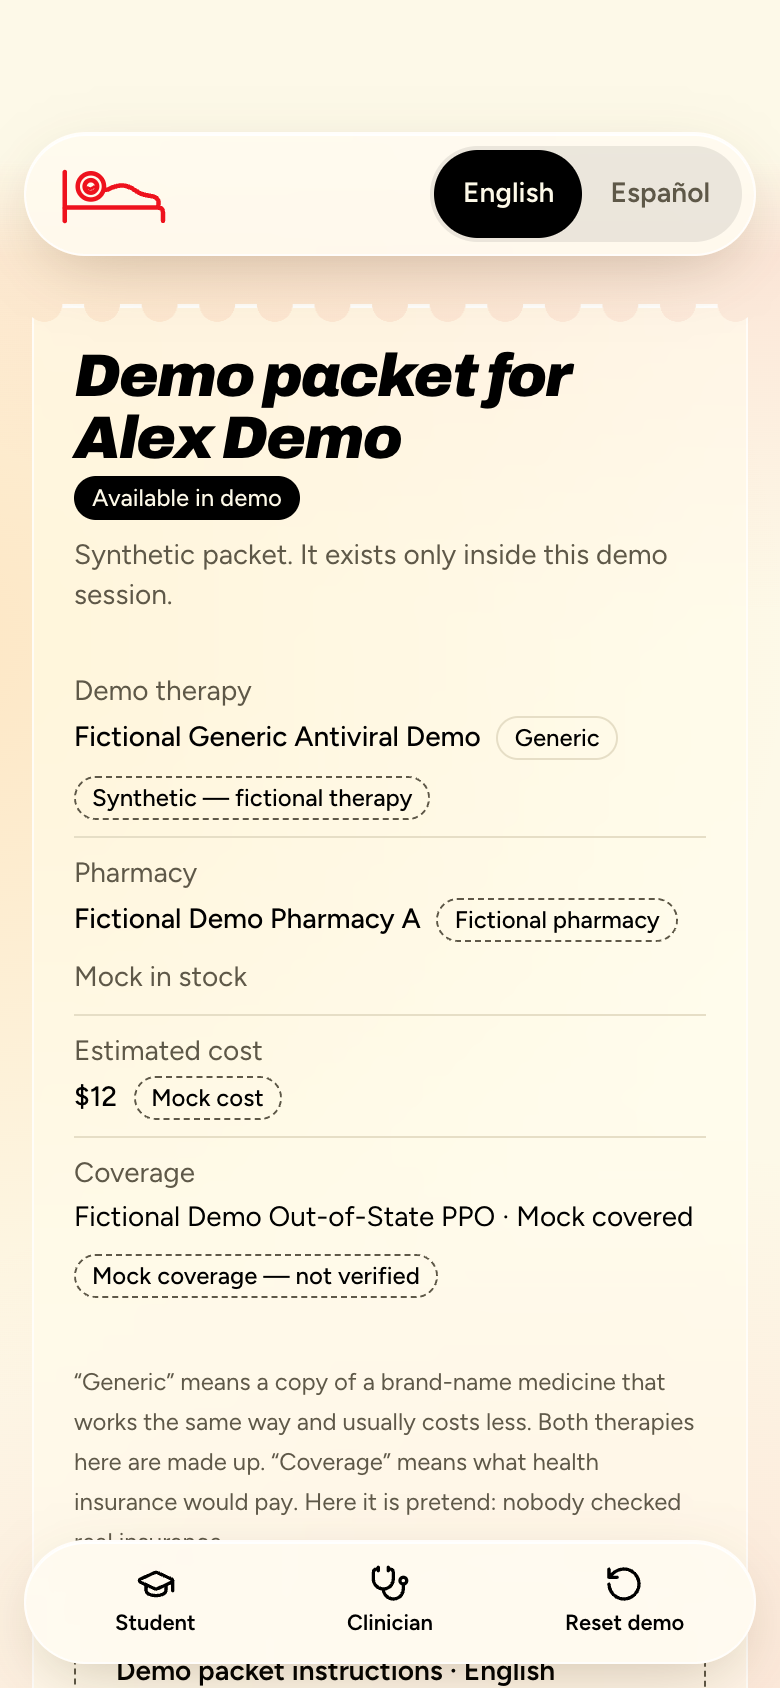
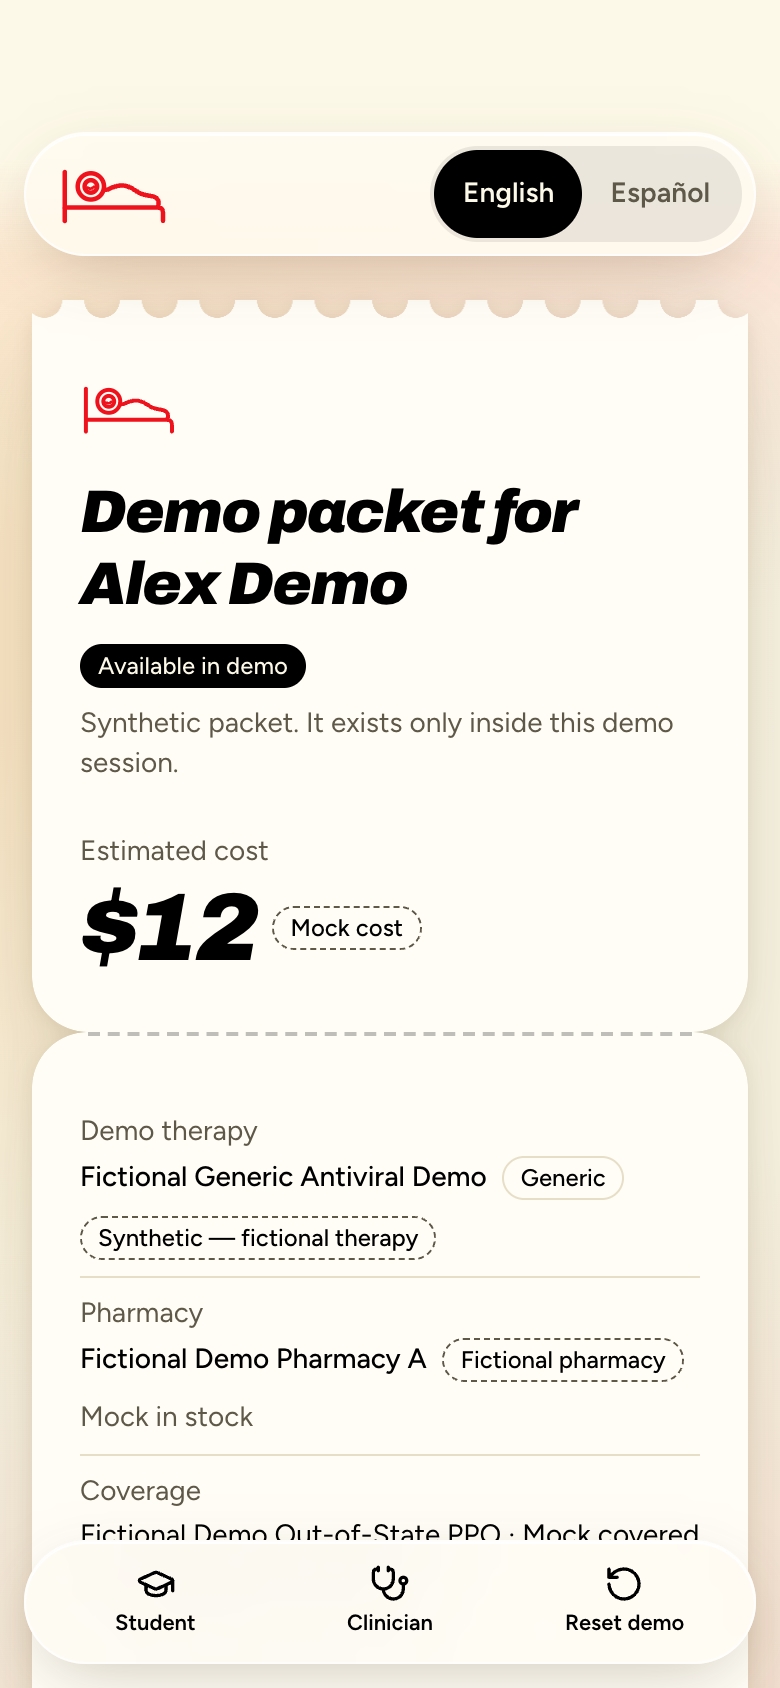
feat: make the returned packet read as a ticket
The packet's only ticket cue was a faint scalloped top edge on a cream
card over a cream page. It is now a two-piece paper ticket: a stub with
the title and the mock price (its label beside it), a perforated tear line
whose side notches come from the two pieces' rounded corners, scalloped
edges top and bottom, and a drop-shadow filter that follows the outline.
The landing page's packet preview is reframed to show it.

diff --git a/src/components/packet/packet-view.tsx b/src/components/packet/packet-view.tsx
@@ -1,6 +1,7 @@
 "use client";
 
 import Link from "next/link";
+import { SickwayMark } from "@/components/brand/sickway-logo";
 import { PollStatus } from "@/components/poll-status";
 import { Alert, AlertDescription, AlertTitle } from "@/components/ui/alert";
 import { Badge } from "@/components/ui/badge";
@@ -58,17 +59,31 @@ export function PacketView({ packetId }: { packetId: string }) {
   const { display } = packet;
 
   return (
-    <Card lang={language} className="ticket-edge mx-auto w-full max-w-2xl rounded-t-none">
-      <CardHeader>
-        <CardTitle>
-          <h1>{p.title(display.patientName)}</h1>
-        </CardTitle>
-        <CardDescription className="flex flex-wrap items-center gap-2">
-          <Badge>{p.available}</Badge>
-          <span>{p.synthetic}</span>
-        </CardDescription>
-      </CardHeader>
-      <CardContent className="flex flex-col gap-6">
+    <article lang={language} className="ticket mx-auto mt-2 w-full max-w-2xl sm:mt-4">
+      {/* The stub: what this is, and the one number a student looks for, with its mock label beside it. */}
+      <header className="ticket-top flex flex-col gap-5 rounded-b-[1.75rem] bg-[#fffdf6] px-6 pt-10 pb-7 sm:px-9">
+        <SickwayMark className="h-7 self-start" />
+        <div className="flex flex-col gap-6 sm:flex-row sm:items-end sm:justify-between">
+          <div className="min-w-0">
+            <h1 className="text-3xl sm:text-4xl">{p.title(display.patientName)}</h1>
+            <p className="mt-3 flex flex-wrap items-center gap-2 text-sm text-ink-soft">
+              <Badge>{p.available}</Badge>
+              <span>{p.synthetic}</span>
+            </p>
+          </div>
+          <dl className="shrink-0 sm:text-right">
+            <dt className="text-sm text-ink-soft">{p.cost}</dt>
+            <dd className="mt-1 flex flex-wrap items-center gap-2 sm:justify-end">
+              <span className="display text-5xl leading-none">{formatMockDollars(packet.mockPrice)}</span>
+              <Badge variant="secondary">{p.mockCost}</Badge>
+            </dd>
+          </dl>
+        </div>
+      </header>
+
+      <div className="ticket-bottom relative flex flex-col gap-6 rounded-t-[1.75rem] bg-[#fffdf6] px-6 pt-8 pb-12 sm:px-9">
+        {/* The perforation, between the two side notches. */}
+        <span aria-hidden className="absolute inset-x-7 top-0 border-t-2 border-dashed border-ink/25" />
         <dl className="text-sm">
           <Row label={p.therapy}>
             <span className="font-medium">{display.therapyName}</span>
@@ -79,10 +94,6 @@ export function PacketView({ packetId }: { packetId: string }) {
             <span className="font-medium">{display.pharmacyName}</span>
             <Badge variant="secondary">{p.fictionalPharmacy}</Badge>
             <span className="text-muted-foreground">{display.stockStatus}</span>
-          </Row>
-          <Row label={p.cost}>
-            <span className="font-medium">{formatMockDollars(packet.mockPrice)}</span>
-            <Badge variant="secondary">{p.mockCost}</Badge>
           </Row>
           <Row label={p.coverage}>
             <span>
@@ -121,7 +132,7 @@ export function PacketView({ packetId }: { packetId: string }) {
         ))}
 
         {display.resources.length > 0 && (
-          <section aria-labelledby="packet-resources" className="rounded-lg border p-4">
+          <section aria-labelledby="packet-resources" className="rounded-2xl border border-ink/12 p-5">
             <h2 id="packet-resources" className="mb-2 text-sm font-semibold">
               {p.included}
             </h2>
@@ -153,7 +164,7 @@ export function PacketView({ packetId }: { packetId: string }) {
             <Link href="/s">{p.back}</Link>
           </Button>
         </div>
-      </CardContent>
-    </Card>
+      </div>
+    </article>
   );
 }

diff --git a/src/app/globals.css b/src/app/globals.css
@@ -237,10 +237,19 @@
   }
 }
 
-.ticket-edge {
+/* The returned packet is a ticket: a stub and a body, each a rounded piece of paper. Where the two
+     meet, their rounded corners leave the side notches, and a dashed line is the perforation.
+     The shadow is a filter, so it follows the scalloped outline; a box-shadow would be masked away.
+     Padding and colour are utilities on the elements: utilities override this layer. */
+  .ticket {
     --notch: 9px;
+    filter: drop-shadow(0 22px 34px rgba(60, 40, 0, 0.16)) drop-shadow(0 2px 5px rgba(60, 40, 0, 0.1));
+  }
+  .ticket-top {
     mask: radial-gradient(var(--notch) at 50% 0, #0000 98%, #000) 50% 0 / calc(var(--notch) * 3.2) 100% repeat-x;
-    padding-top: calc(var(--notch) * 1.6);
+  }
+  .ticket-bottom {
+    mask: radial-gradient(var(--notch) at 50% 100%, #0000 98%, #000) 50% 100% / calc(var(--notch) * 3.2) 100% repeat-x;
   }
 }
 

diff --git a/README.md b/README.md
@@ -27,7 +27,7 @@ The look comes from the logo (`public/brand/sickway-logo.png`, redrawn as SVG in
 - **Glass:** cards, the navbar, and the phone tab bar are translucent panels (`.glass`, `.glass-strong`) over a fixed, gradient-tinted backdrop (`.page-backdrop`). The fill is opaque enough to keep contrast where `backdrop-filter` is unavailable; gradients rather than blur filters keep it cheap on phones.
 - **Navigation:** a floating glass pill inside one sticky frame with the required synthetic-data banner, so both stay in view while scrolling. Below 768 px the pill keeps the logo and the language choice, and the destinations move to a glass tab bar at the bottom, clear of the iOS home indicator (`viewport-fit=cover` + safe-area insets). Only one nav is mounted at a time.
 - **Dashed means mock.** Every `secondary` badge — mock cost, mock coverage, fictional pharmacy, prepared output, simulated self-report — has a dashed outline; solid chips are real system state. The landing page states this rule and every screen keeps it.
-- **One red line.** The logo's stroke is the progress thread in the student stepper and slides between steps in the landing page's scroll story. The clinician brief uses large S / B / A / R letters; the packet is a perforated paper ticket.
+- **One red line.** The logo's stroke is the progress thread in the student stepper and slides between steps in the landing page's scroll story. The clinician brief uses large S / B / A / R letters; the returned packet (`/packet/[id]`) is a paper ticket: a stub with the title and the mock price, a perforated tear line with side notches, scalloped edges top and bottom, and a shadow that follows that outline (`.ticket`, `.ticket-top`, `.ticket-bottom` in `globals.css`).
 - **Motion** is decoration, never information: reveals on the landing page only, `MotionConfig reducedMotion="user"`, and a global `prefers-reduced-motion` rule.
 - **MagicUI** components (vendored in `src/components/ui/`): `blur-fade`, `border-beam`, `dot-pattern`, `iphone`, `safari`. The device frames show **real screenshots of this app**: run `pnpm shots:brand` (with `pnpm dev` running) to regenerate `public/brand/shot-*.png` after a UI change. The phone frame (`src/components/ui/iphone.tsx`) is a transparent PNG of an iPhone 17 Pro Max, `public/brand/iphone-frame.png`, drawn over the screenshot; it was cut from a team-supplied mockup whose checkerboard background was painted in, and the screen rectangle in the component was measured from it. The phone shots reserve the iOS safe area, so the frame's Dynamic Island has room. One deliberate difference from the live app: the phone previews hide the synthetic-data banner's text (`scripts/brand-shots.mjs`), because the landing page around them carries the banner itself. The app on a real phone shows it on every screen. The required synthetic-data banner is on every screen at every width: a black bar from 640px up, and on a phone a slim frosted strip in the page's cream (`src/components/synthetic-banner.tsx`), with the browser's theme colour matched to it. On wide screens the hero's device column grows into the right margin (`.hero-bleed` in `globals.css`), which is what lets the laptop and phone be large. No testimonials, ratings, or usage numbers are shown, because there are none.
 - **App screens.** The clinician workspace is the page, not a box on it: on a wide screen it takes the margins too (`.page-bleed`), the queue is a sticky glass rail, and each section is its own glass panel with a display heading. The options layout follows the width of its own column, not the window (`useElementWidth`): a seven-column table from 900px of room, otherwise cards, two across when they fit. On the student screen the made-up patient opens as one line with the rest under "Details", so "What is going on today?" is on the first screen of a phone.
